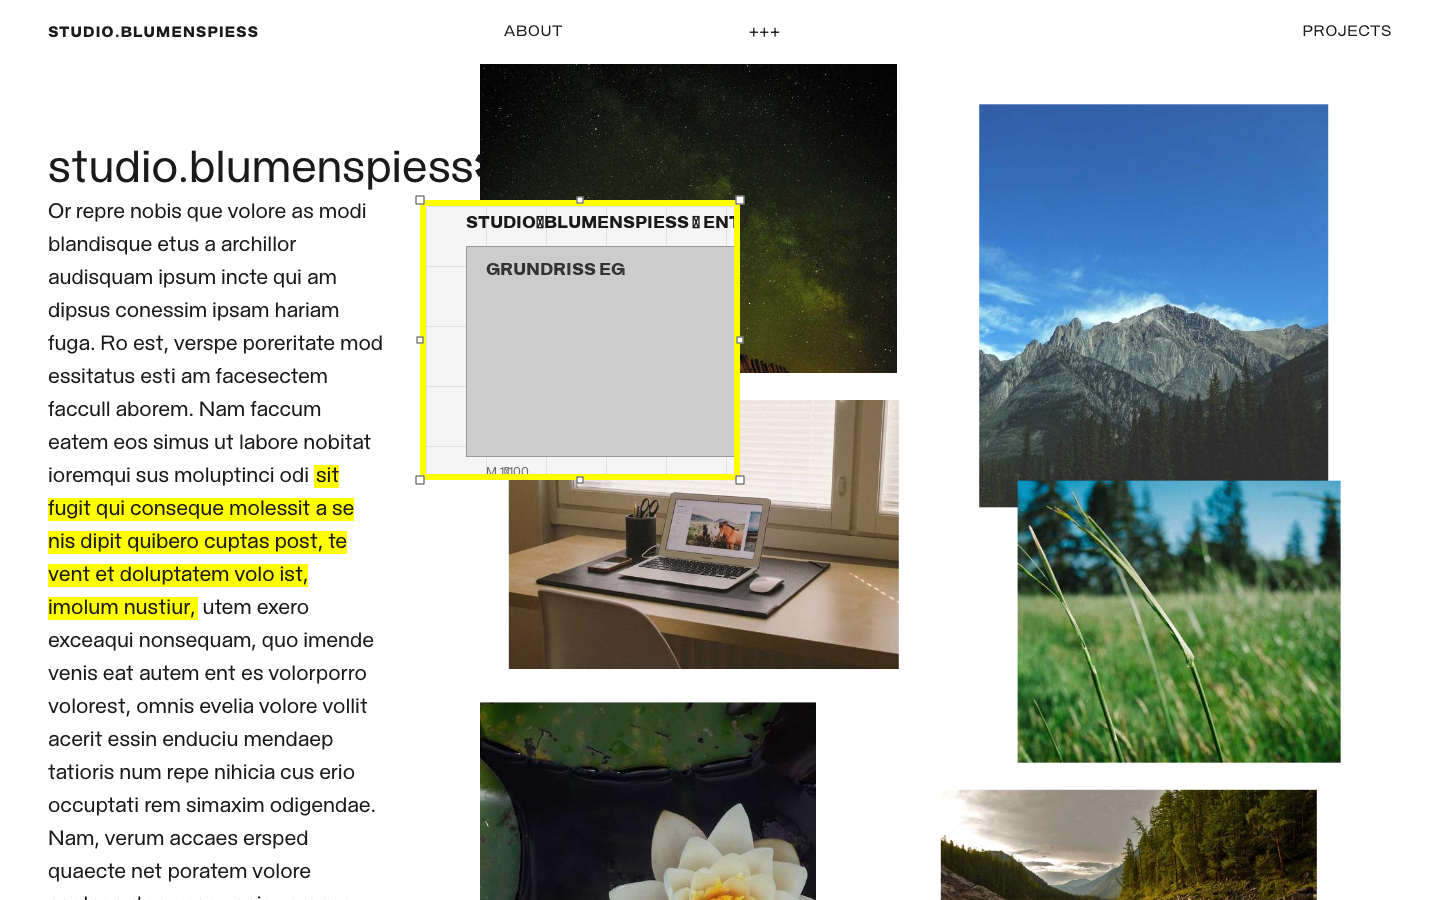
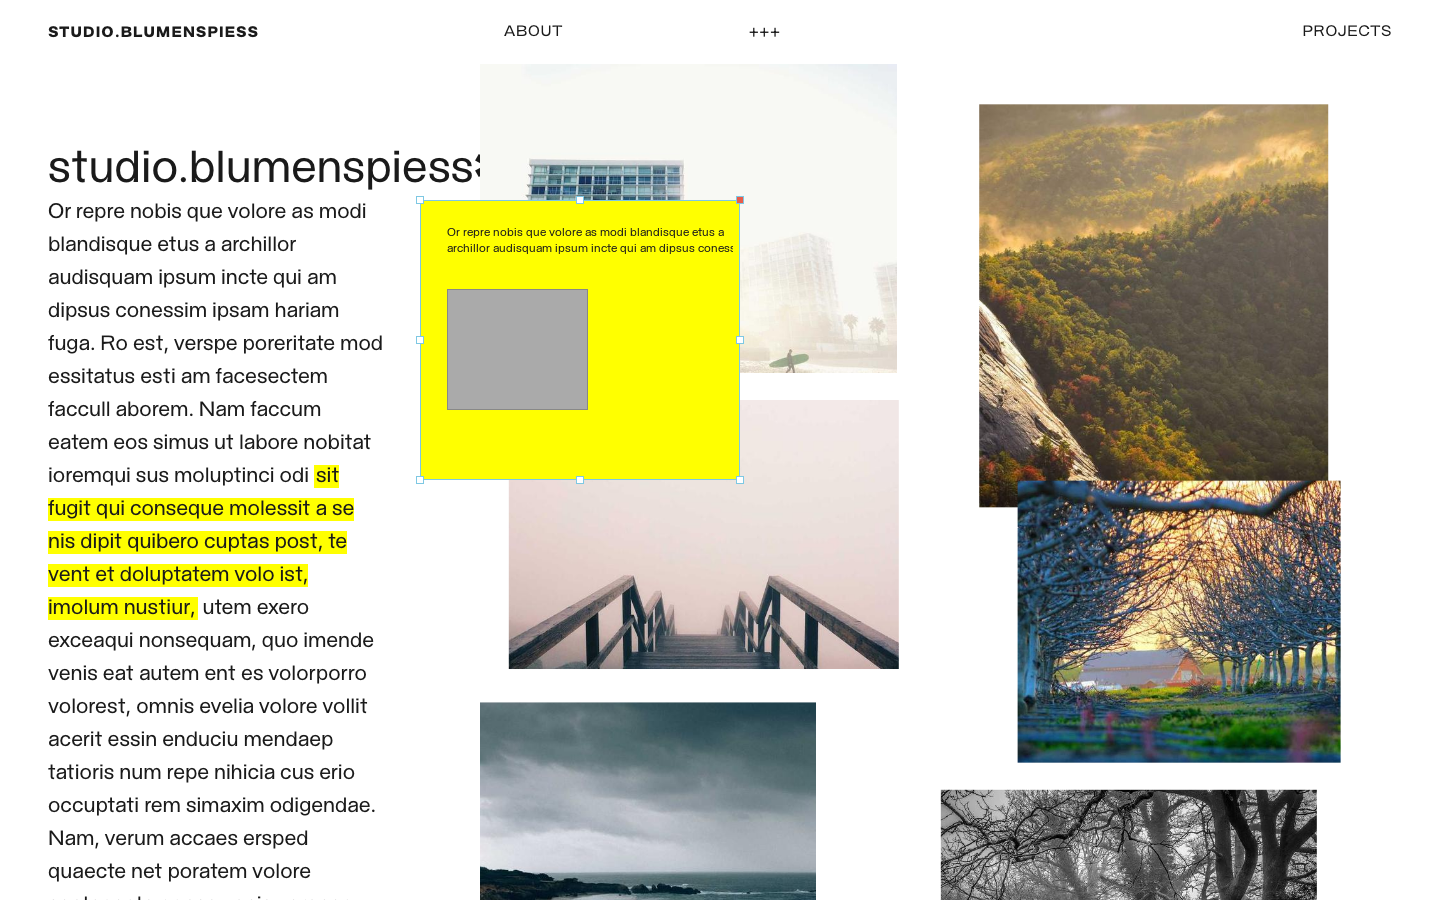
style: yellow window light blue border, uniform handles, red close button
Match design mockup: add #7EC8E3 border to window, make all resize
handles same size (8px) with blue border/white fill, top-right handle
gets red (#E85D4A) fill as close indicator.

diff --git a/src/app/components/YellowWindow/YellowWindow.module.scss b/src/app/components/YellowWindow/YellowWindow.module.scss
@@ -20,6 +20,7 @@
   background: $color-highlight;
   padding: 6px;
   box-sizing: border-box;
+  border: 1.5px solid #7EC8E3;
   cursor: grab;
 
   &:active {
@@ -37,23 +38,28 @@
   position: relative;
 }
 
-// Resize handles — small outlined squares that sit ON the edge/corner
+// Resize handles — same size, light blue border, white fill
 .handle {
+  width: 8px;
+  height: 8px;
   position: absolute;
   top: 50%;
   left: 50%;
   transform: translate(-50%, -50%);
-  border: 1.5px solid #444;
+  border: 1.5px solid #7EC8E3;
   background: white;
   box-sizing: border-box;
 }
 
-.handleCorner {
-  width: 9px;
-  height: 9px;
-}
-
-.handleEdge {
-  width: 7px;
-  height: 7px;
+// Top-right corner gets a red/orange fill
+.handleTopRight {
+  width: 8px;
+  height: 8px;
+  position: absolute;
+  top: 50%;
+  left: 50%;
+  transform: translate(-50%, -50%);
+  border: 1.5px solid #7EC8E3;
+  background: #E85D4A;
+  box-sizing: border-box;
 }

diff --git a/src/app/components/YellowWindow/YellowWindow.tsx b/src/app/components/YellowWindow/YellowWindow.tsx
@@ -63,14 +63,14 @@ export const YellowWindow = () => {
         minHeight={100}
         className={styles.rndWrapper}
         resizeHandleComponent={{
-          topLeft: <div className={`${styles.handle} ${styles.handleCorner}`} />,
-          topRight: <div className={`${styles.handle} ${styles.handleCorner}`} />,
-          bottomLeft: <div className={`${styles.handle} ${styles.handleCorner}`} />,
-          bottomRight: <div className={`${styles.handle} ${styles.handleCorner}`} />,
-          top: <div className={`${styles.handle} ${styles.handleEdge}`} />,
-          right: <div className={`${styles.handle} ${styles.handleEdge}`} />,
-          bottom: <div className={`${styles.handle} ${styles.handleEdge}`} />,
-          left: <div className={`${styles.handle} ${styles.handleEdge}`} />,
+          topLeft: <div className={styles.handle} />,
+          topRight: <div className={styles.handleTopRight} />,
+          bottomLeft: <div className={styles.handle} />,
+          bottomRight: <div className={styles.handle} />,
+          top: <div className={styles.handle} />,
+          right: <div className={styles.handle} />,
+          bottom: <div className={styles.handle} />,
+          left: <div className={styles.handle} />,
         }}
       >
         <div className={styles.content}>